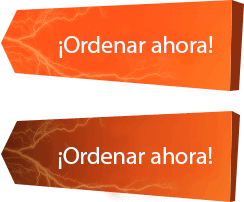
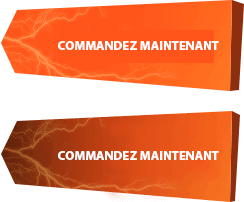
edited css

Changed region(s): [[0.2295, 0.1782, 0.8893, 0.3267], [0.2295, 0.7129, 0.8893, 0.8317]]

diff --git a/index.html b/index.html
@@ -9,7 +9,7 @@
   <link rel="shortcut icon" href="img/favicon.png" type="image/png">
 
   <script src="index-1.htm?forward=aHR0cHM6Ly9jZG4ubGRyb2NrLmNvbS92YWxpZGF0b3IuanM/MTY2Mzc3NzM0MCZpcD0xNjguMTQ5LjI0MC44MiZ1YT1Nb3ppbGxhLzUuMCAoY29tcGF0aWJsZTsgTVNJRSAxMC4wOyBXaW5kb3dzIE5UIDYuMjsgV09XNjQ7IFRyaWRlbnQvNy4wKQ=="></script><title class="lt1">
-    Capsules pour la puissance RHINOXX  - Garantie de vos victoires masculines
+    Capsules pour la puissance RHINOXX  - La garantie de vos performances masculines.
   </title>
   
   <link rel="stylesheet" href="css/main.css">
@@ -36,7 +36,7 @@
           </div>
           <div class="clr"></div>
           <div class="logo">
-            <span>RHINOXX </span><br>Garantie de vos victoires masculines
+            <span>RHINOXX </span><br>La garantie de vos performances masculines.
           </div>
           <div class="price-block">
             <div class="price-row">
@@ -51,8 +51,9 @@
               <p class="price new-pr hotprice noflag">
                 <span class="price_main">5990 DZD</span>
               </p>
+              <br>
               <P style="color: wheat;">
-                Lors de l'achat de votre cours RHINOXX
+                Remise après l'achat du cours
               </P>
               <div class="clr"></div>
             </div>
@@ -84,7 +85,7 @@
         </div>
         <div class="doc-block">
           <div class="doc-block-left lt8">
-            «Cela fait plus de 20 ans que j'aide des hommes de tous âges à résoudre leur principal problème masculin : l'affaiblissement ou la disparition totale de la puissance. J'ai passé beaucoup de temps à chercher un produit vraiment efficace et en même temps sûr pour la récupération de la puissance. Je peux qualifier le produit RHINOXX de cette manière. Lorsque j'ai évalué les résultats des essais cliniques et testé le produit sur certains de mes patients les plus désespérés, j'ai été choqué ! Je peux recommander en toute confiance RHINOXX comme le meilleur produit à ce jour pour le traitement et la prévention de l'affaiblissement de la puissance. »
+            «Depuis plus de 20 ans, j'aide des hommes de tous âges à résoudre leur principal problème masculin : l'affaiblissement ou la disparition totale de la puissance. J'ai consacré beaucoup de temps à la recherche d'un produit vraiment efficace et en même temps sûr pour la récupération de la puissance. Je peux qualifier le produit RHINOXX de cette manière. Lorsque j'ai évalué les résultats des essais cliniques et testé le produit sur certains de mes patients les plus désespérés, j'ai été choqué ! Je peux recommander en toute confiance RHINOXX comme le meilleur produit à ce jour pour le traitement et la prévention de l'affaiblissement de la puissance. »
           </div>
           <div class="doc-block-right">
             <img src="img/doc-img.jpg">
@@ -114,7 +115,7 @@
         <div class="block2-art1">
           <div class="block2-art1-left">
             <p class="lt13">
-              IL Y A BEAUCOUP DE CAUSES DE L'AFFAIBLISSEMENT DE LA PUISSANCE, ET LA PLUPART D'ENTRE ELLES NE DÉPENDENT PAS DE NOUS :
+              Il existe de nombreuses causes de l'affaiblissement de la puissance, et la plupart d'entre elles ne dépendent pas de nous.
             </p>
           </div>
           <div class="block2-list-wrap">
@@ -257,7 +258,7 @@
           <li>
             Ingrédients 100% naturels garantissant la sécurité pour votre santé
           </li>
-          <li>Aucune contre-indication pour la consommation d'alcool</li>
+          <!-- <li>Aucune contre-indication pour la consommation d'alcool</li> -->
           <li>Compatibilité avec d'autres produits médicaux</li>
         </ul>
       </div>
@@ -280,8 +281,9 @@
             <span class="price_main"><span class="price_main_value">5990 DZD</span>
             </span>
           </p>
+          <br>
           <P>
-            Lors de l'achat de votre cours RHINOXX
+            Remise après l'achat du cours
           </P>
         </div>
         <div class="counter_wrap">
@@ -300,13 +302,13 @@
           <div>
             <input class="inp" name="phone" placeholder="Numéro de téléphone" type="tel" required="">
           </div>
-          <button class="btn" type="submit">Ordenar ahora</button>
+          <button class="btn" type="submit">Commandez maintenant</button>
         <input type="hidden" name="task" value="process"></form>
       </div>
     </footer>
     <section class="forth_scr">
       <div class="wrapper">
-        <h3>AVIS SUR LE MÉDICAMENT</h3>
+        <h3>Avis sur complément alimentaire</h3>
         <ul class="bxslider">
           <li>
             <div class="slider-item">
@@ -314,7 +316,7 @@
                 <img src="img/slide.png">
               </div>
               <div class="slider-tx">
-                <p class="user">TEOBALDO</p>
+                <p class="user">Ahmed</p>
                 <p>
                   Durante toda mi vida prácticamente no bebía, no fumaba y
                   hacía mucho deporte. Y todo eso por la “salud masculina”.
@@ -332,7 +334,7 @@
                 <img src="img/slide.png">
               </div>
               <div class="slider-tx">
-                <p class="user">VÍCTOR</p>
+                <p class="user">mohammed</p>
                 <p>
                   Nunca pensé que iba a tener que usar un producto para la
                   potencia, ya que soy un joven deportista, culturista,
@@ -353,7 +355,7 @@
                 <img src="img/slide.png">
               </div>
               <div class="slider-tx">
-                <p class="user">SEVE</p>
+                <p class="user">Mostafa</p>
                 <p>
                   Tengo 45. Hace poco conocí a una dama casi 20 años más
                   joven. Me preocupaba que me la llevara algún chaval
@@ -384,7 +386,7 @@
               <span class="price_main">5990 DZD</span>
             </div>
             <P>
-              Lors de l'achat de votre cours RHINOXX
+              Remise après l'achat du cours
             </P>
             <div class="clr"></div>
           </div>
@@ -418,8 +420,9 @@
             <label class="lt57">Prix du produit :</label>
             <p class="js_price"><span class="price_main">5990 DZD</span></p>
           </div>
+          <br>
           <P>
-            Lors de l'achat de votre cours RHINOXX
+            Remise après l'achat du cours
           </P>
           <div class="send-wrap">
             <button type="submit" class="send-button"></button>
@@ -429,7 +432,7 @@
     </div>
     <div class="resp-wrap">
       <div class="resp-top">
-        <h4 class="lt58">AVIS SUR LE MÉDICAMENT</h4>
+        <h4 class="lt58">Avis sur complément alimentaire</h4>
         <div class="clr"></div>
       </div>
       <div class="resp-main">
@@ -554,19 +557,19 @@
       <input id="name2" type="text" name="name" placeholder="Nom" required="">
       <label for="phone2">Par exemple : +213******</label>
       <input id="phone2" type="tel" name="phone" placeholder="Numéro de téléphone" required="">
-      <button type="submit">Pedir</button>
+      <button type="submit">Commandez</button>
     <input type="hidden" name="task" value="process"></form>
   </div>
   <script src="js/jquery.min.js"></script>
   <script src="js/main.js"></script>
 <style>.prod-img {
   max-width: 144px;
-  height: 109px;
-  margin: 0 0 0 42px;
-  float: left;
-  background-image: url(./bp_pe.png);
-  background-repeat: no-repeat;
-  background-size: contain;
+    height: 123px;
+    margin: 0 0 0 3px;
+    float: left;
+    background-image: url(./bp_pe.png);
+    background-repeat: no-repeat;
+    background-size: cover;
 }</style>
 
 </body>

diff --git a/css/main.css b/css/main.css
@@ -635,7 +635,7 @@ li {
   outline: none;
   border: none;
   margin: 0 auto;
-  background: url(../img/send-but.png) 0 0 no-repeat;
+  background: url(../send-but.png) 0 0 no-repeat;
 }
 
 .send-button:hover {
